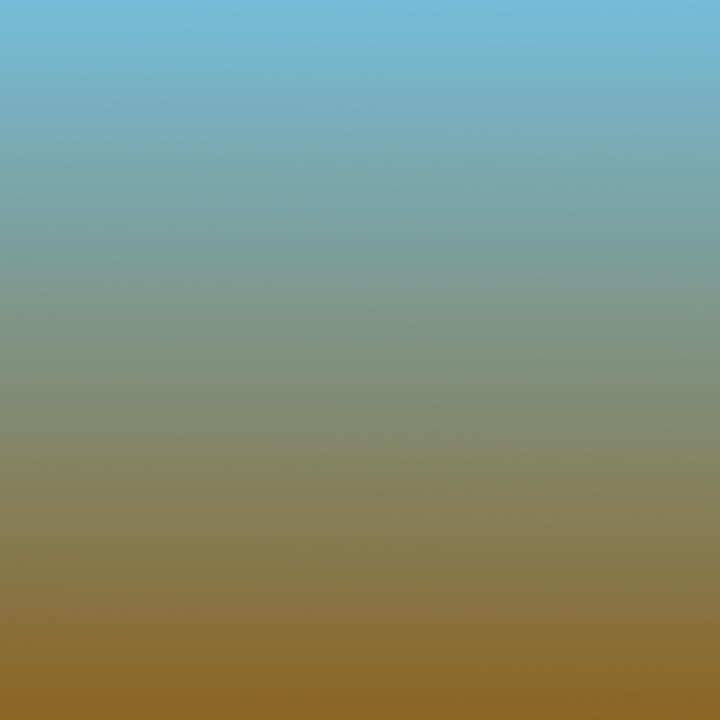
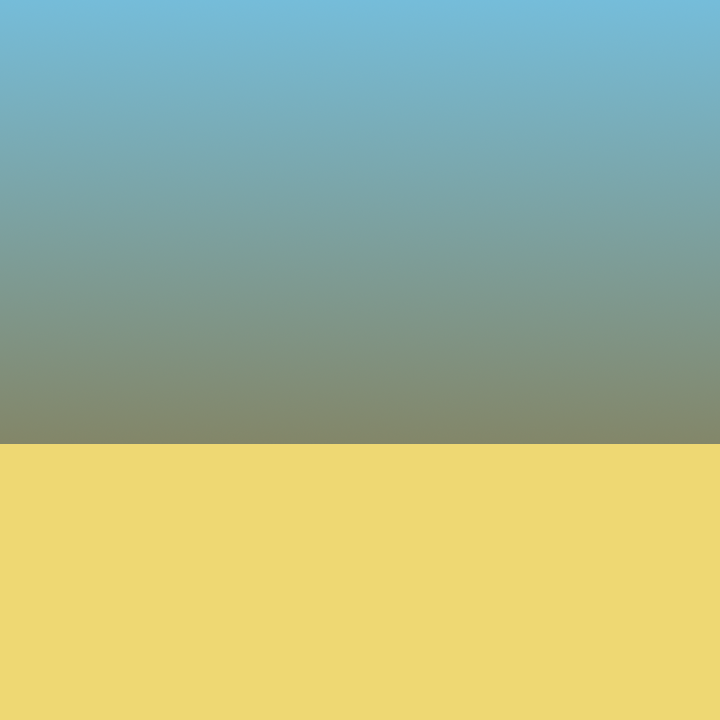
floor

diff --git a/src/Game.cpp b/src/Game.cpp
@@ -129,17 +129,30 @@ void Game::Load() {
 
     scnMgr->setAmbientLight(Ogre::ColourValue(0.5f, 0.5f, 0.5f));
 
-    Ogre::MaterialPtr material = Ogre::MaterialManager::getSingleton().create("skybox", Ogre::ResourceGroupManager::DEFAULT_RESOURCE_GROUP_NAME);
+    Ogre::MaterialPtr skybox_material = Ogre::MaterialManager::getSingleton().create("skybox", Ogre::ResourceGroupManager::DEFAULT_RESOURCE_GROUP_NAME);
     if (std::filesystem::exists(meshfolder + "skybox.png")) {
-        material->getTechnique(0)->getPass(0)->createTextureUnitState("skybox.png");
+        skybox_material->getTechnique(0)->getPass(0)->createTextureUnitState("skybox.png");
     }
     scnMgr->setSkyBox(true, "skybox");
+
+    Ogre::Plane plane;
+    plane.normal = Ogre::Vector3::UNIT_Y;
+    plane.d = 0;
+    Ogre::MeshManager::getSingleton().createPlane("Myplane", Ogre::ResourceGroupManager::DEFAULT_RESOURCE_GROUP_NAME, plane, 25000, 25000, 10, 10, true, 1, 5, 5, Ogre::Vector3::UNIT_Z);
+    Ogre::Entity* pPlaneEnt = scnMgr->createEntity("plane", "Myplane");
+    Ogre::MaterialPtr floor_material = Ogre::MaterialManager::getSingleton().create("floor", Ogre::ResourceGroupManager::DEFAULT_RESOURCE_GROUP_NAME);
+    if (std::filesystem::exists(meshfolder + "floor.png")) {
+        floor_material->getTechnique(0)->getPass(0)->createTextureUnitState("floor.png");
+    }
+    pPlaneEnt->setMaterial(floor_material);
+    pPlaneEnt->setCastShadows(false);
+    scnMgr->getRootSceneNode()->createChildSceneNode()->attachObject(pPlaneEnt);
 
     Ogre::Light *light = scnMgr->createLight("MainLight");
     // light->setDiffuseColour(Ogre::ColourValue::White);
     // light->setSpecularColour(Ogre::ColourValue::White);
     Ogre::SceneNode *lightNode = scnMgr->getRootSceneNode()->createChildSceneNode();
-    lightNode->setPosition(20, 40, -50);
+    lightNode->setPosition(0, 200, -250);
     lightNode->attachObject(light);
 
     // also need to tell where we are
